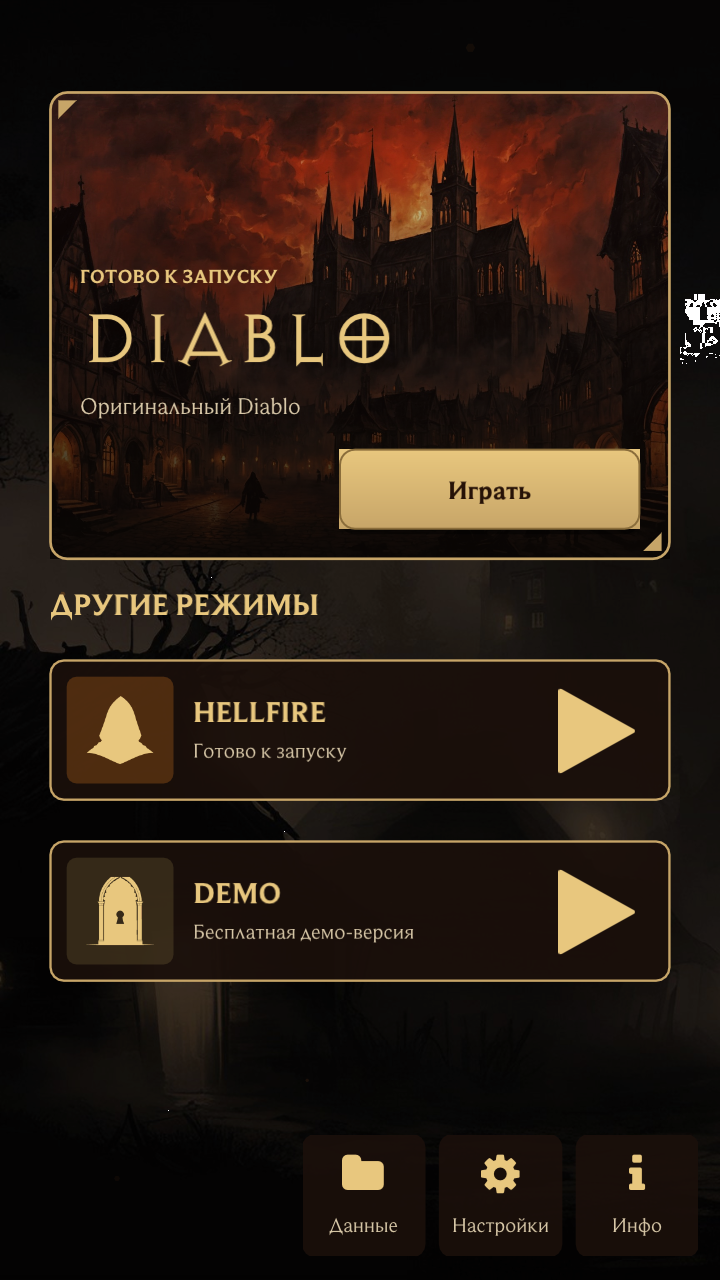
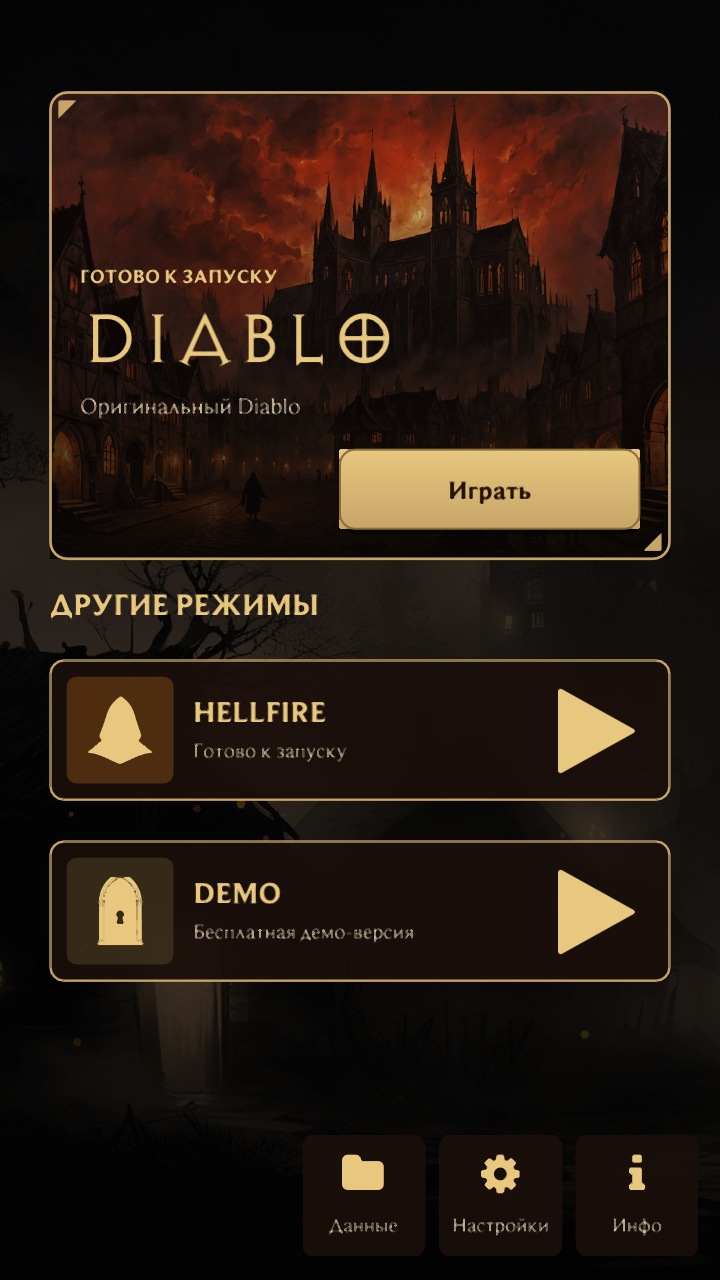
Capture launcher slides from the render backbuffer
PrintWindow and CopyFromScreen both go through the DWM compositor,
which reassembles the SDL frame and leaves speckle noise on dark
gradients - visible on static zoomed screenshots, absent on the
device. Add a DEVILUTIONX_DUMP_FRAME/DEVILUTIONX_DUMP_PATH dev dump
(SDL_RenderReadPixels before Present, lossless BMP) and retake the
three launcher store cards through it, plus a selective-median
denoise helper for stray single-pixel outliers. capture2.ps1 also
gains a verified-foreground GDI mode.

Changed region(s): [[0.9472, 0.2188, 1.0, 0.2812]]

diff --git a/aurora_project/scripts/tools/denoise_slide.py b/aurora_project/scripts/tools/denoise_slide.py
@@ -1,0 +1,68 @@
+# -*- coding: utf-8 -*-
+"""Выборочный деноиз скриншотов: соль-перец/JPEG-зерно на тёмных фонах.
+
+Пиксель, отличающийся от медианы своей окрестности 3x3 сильнее порога,
+заменяется медианой. Края, текст и фактура с перепадом остаются на месте:
+замене подлежат только одиночные выбросы (зерно, невидимое глазу на
+живом экране, но заметное на статичном увеличенном PNG).
+
+    python denoise_slide.py <in.png> <out.png> [--threshold 26]
+"""
+import argparse
+
+import numpy as np
+from PIL import Image
+
+
+def median3x3(gray):
+    h, w = gray.shape
+    padded = np.pad(gray, 1, mode="edge")
+    stack = np.empty((9, h, w), dtype=np.int16)
+    idx = 0
+    for dy in (-1, 0, 1):
+        for dx in (-1, 0, 1):
+            stack[idx] = padded[1 + dy:1 + dy + h, 1 + dx:1 + dx + w]
+            idx += 1
+    return np.median(stack, axis=0)
+
+
+def denoise(arr, threshold):
+    out = arr.copy()
+    gray = arr.astype(np.int16).mean(axis=-1)
+    med = median3x3(gray)
+    delta = np.abs(gray - med)
+    mask = delta > threshold
+    # Медиана посчитана по люму; заменяем цветной пиксель взвешенно к
+    # среднему окрестности (цвет зерно тоже уводит).
+    for c in range(3):
+        ch = arr[..., c].astype(np.int16)
+        h, w = ch.shape
+        padded = np.pad(ch, 1, mode="edge")
+        nb = np.empty((9, h, w), dtype=np.int16)
+        idx = 0
+        for dy in (-1, 0, 1):
+            for dx in (-1, 0, 1):
+                nb[idx] = padded[1 + dy:1 + dy + h, 1 + dx:1 + dx + w]
+                idx += 1
+        out[..., c] = np.where(mask, np.median(nb, axis=0), ch).astype(np.uint8)
+    return out, int(mask.sum())
+
+
+def main():
+    ap = argparse.ArgumentParser()
+    ap.add_argument("src")
+    ap.add_argument("out")
+    ap.add_argument("--threshold", type=int, default=26)
+    args = ap.parse_args()
+
+    img = Image.open(args.src).convert("RGB")
+    arr = np.asarray(img)
+    result, replaced = denoise(arr, args.threshold)
+    Image.fromarray(result).save(args.out)
+    total = arr.shape[0] * arr.shape[1]
+    print("denoised {} -> {} (replaced {} px = {:.2f}%)".format(
+        args.src, args.out, replaced, 100.0 * replaced / total))
+
+
+if __name__ == "__main__":
+    main()

diff --git a/Source/platform/aurora_os/devilution_launcher/Application.cpp b/Source/platform/aurora_os/devilution_launcher/Application.cpp
@@ -23,6 +23,8 @@
 
 #include <cmrc/cmrc.hpp>
 
+#include <cstdlib>
+
 #ifdef AURORA_OS
 #   include "../StandartPaths.hpp"
 #endif
@@ -499,6 +501,32 @@ AppResult Application::Run()
 		SDL_SetRenderDrawColor(m_renderer, 10, 7, 5, 255);
 		SDL_RenderClear(m_renderer);
 		ImGui_ImplSDLRenderer2_RenderDrawData(ImGui::GetDrawData(), m_renderer);
+
+		// Dev-дамп кадра ДО композитора: ReadPixels из бэкбуфера рендерера
+		// отдаёт чистые пиксели (PrintWindow/CopyFromScreen идут через DWM
+		// и ловят его пересборку кадра). DEVILUTIONX_DUMP_FRAME=N задаёт
+		// номер кадра, DEVILUTIONX_DUMP_PATH — куда писать BMP.
+		static const int dumpFrameNo = [] {
+			const char *env = SDL_getenv("DEVILUTIONX_DUMP_FRAME");
+			return env != nullptr ? std::atoi(env) : -1;
+		}();
+		static int frameCounter = 0;
+		if (dumpFrameNo == frameCounter) {
+			int dumpW = 0;
+			int dumpH = 0;
+			SDL_GetRendererOutputSize(m_renderer, &dumpW, &dumpH);
+			SDL_Surface *shot = SDL_CreateRGBSurfaceWithFormat(
+			    0, dumpW, dumpH, 0, SDL_PIXELFORMAT_RGB24);
+			if (shot != nullptr) {
+				if (SDL_RenderReadPixels(m_renderer, nullptr, SDL_PIXELFORMAT_RGB24, shot->pixels, shot->pitch) == 0) {
+					const char *dumpPath = SDL_getenv("DEVILUTIONX_DUMP_PATH");
+					SDL_SaveBMP(shot, dumpPath != nullptr ? dumpPath : "devilutionx_frame.bmp");
+				}
+				SDL_FreeSurface(shot);
+			}
+		}
+		++frameCounter;
+
 		SDL_RenderPresent(m_renderer);
 
 		// Кадровый темп ~60 fps: без паузы цикл крутится вхолостую на
